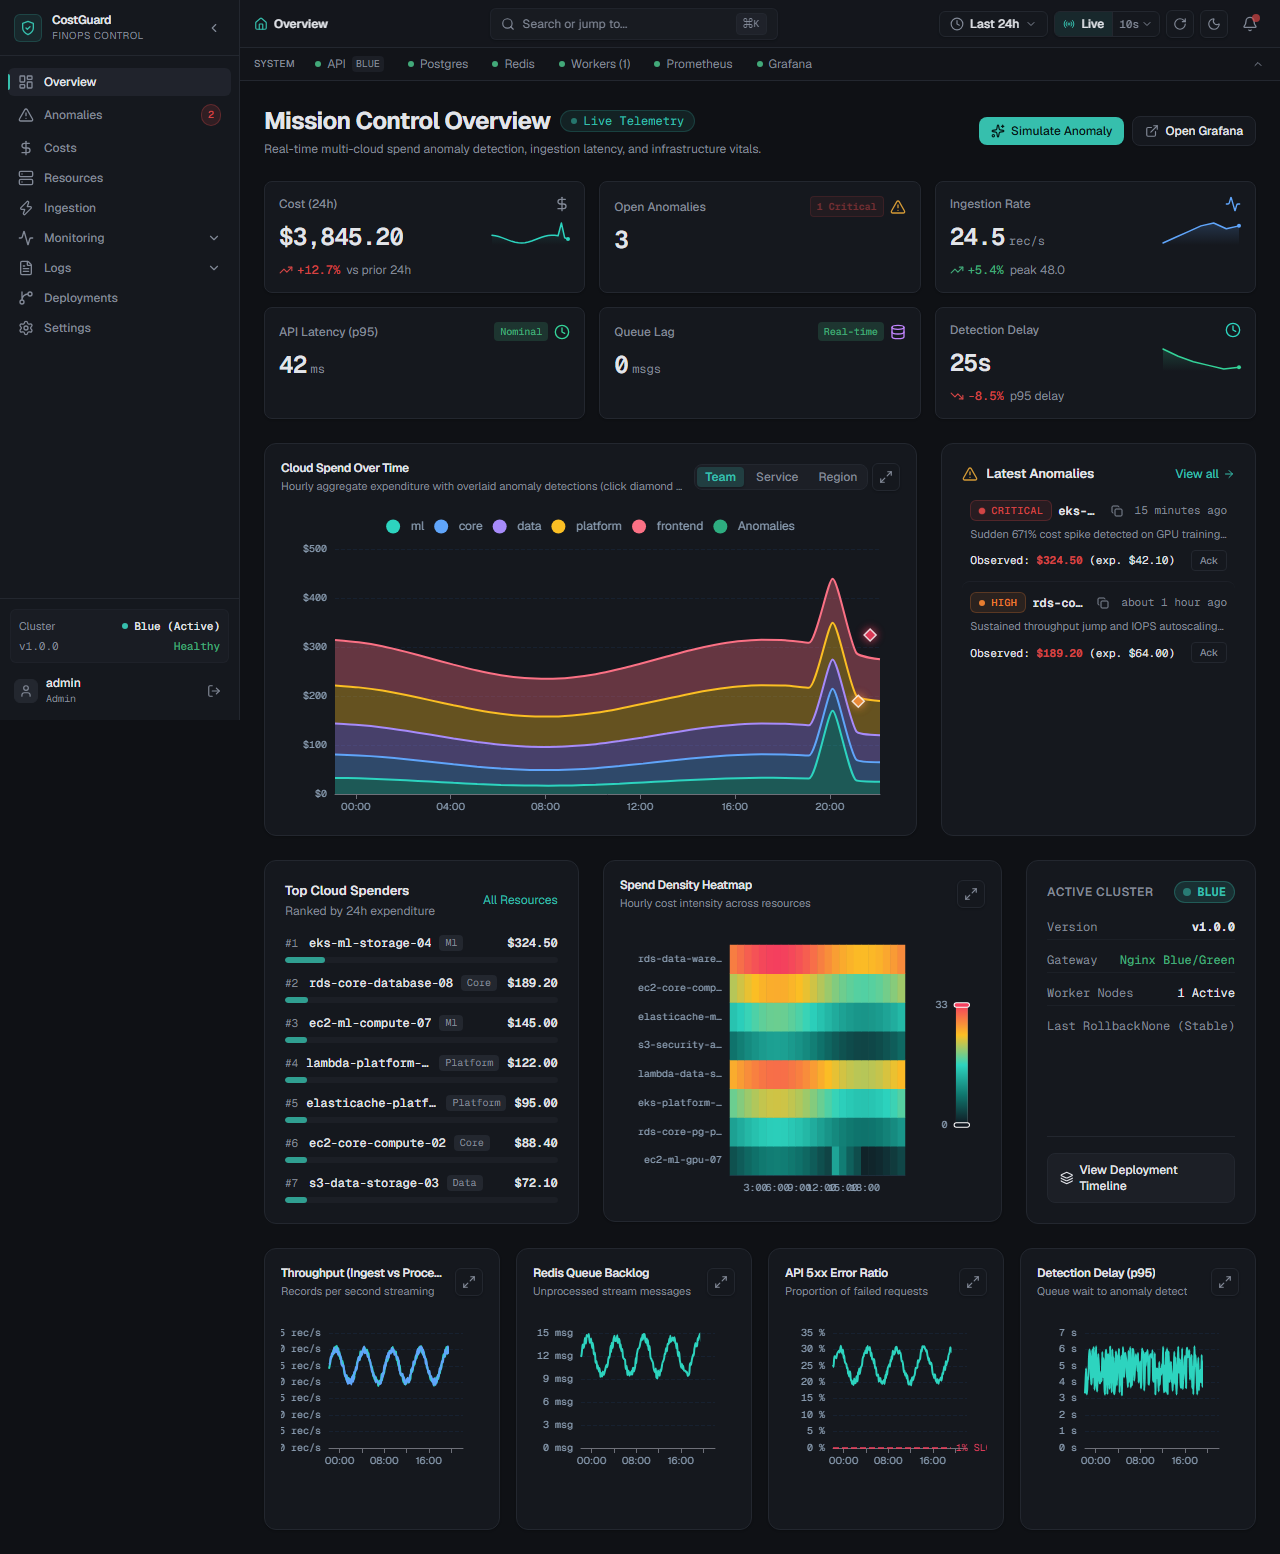
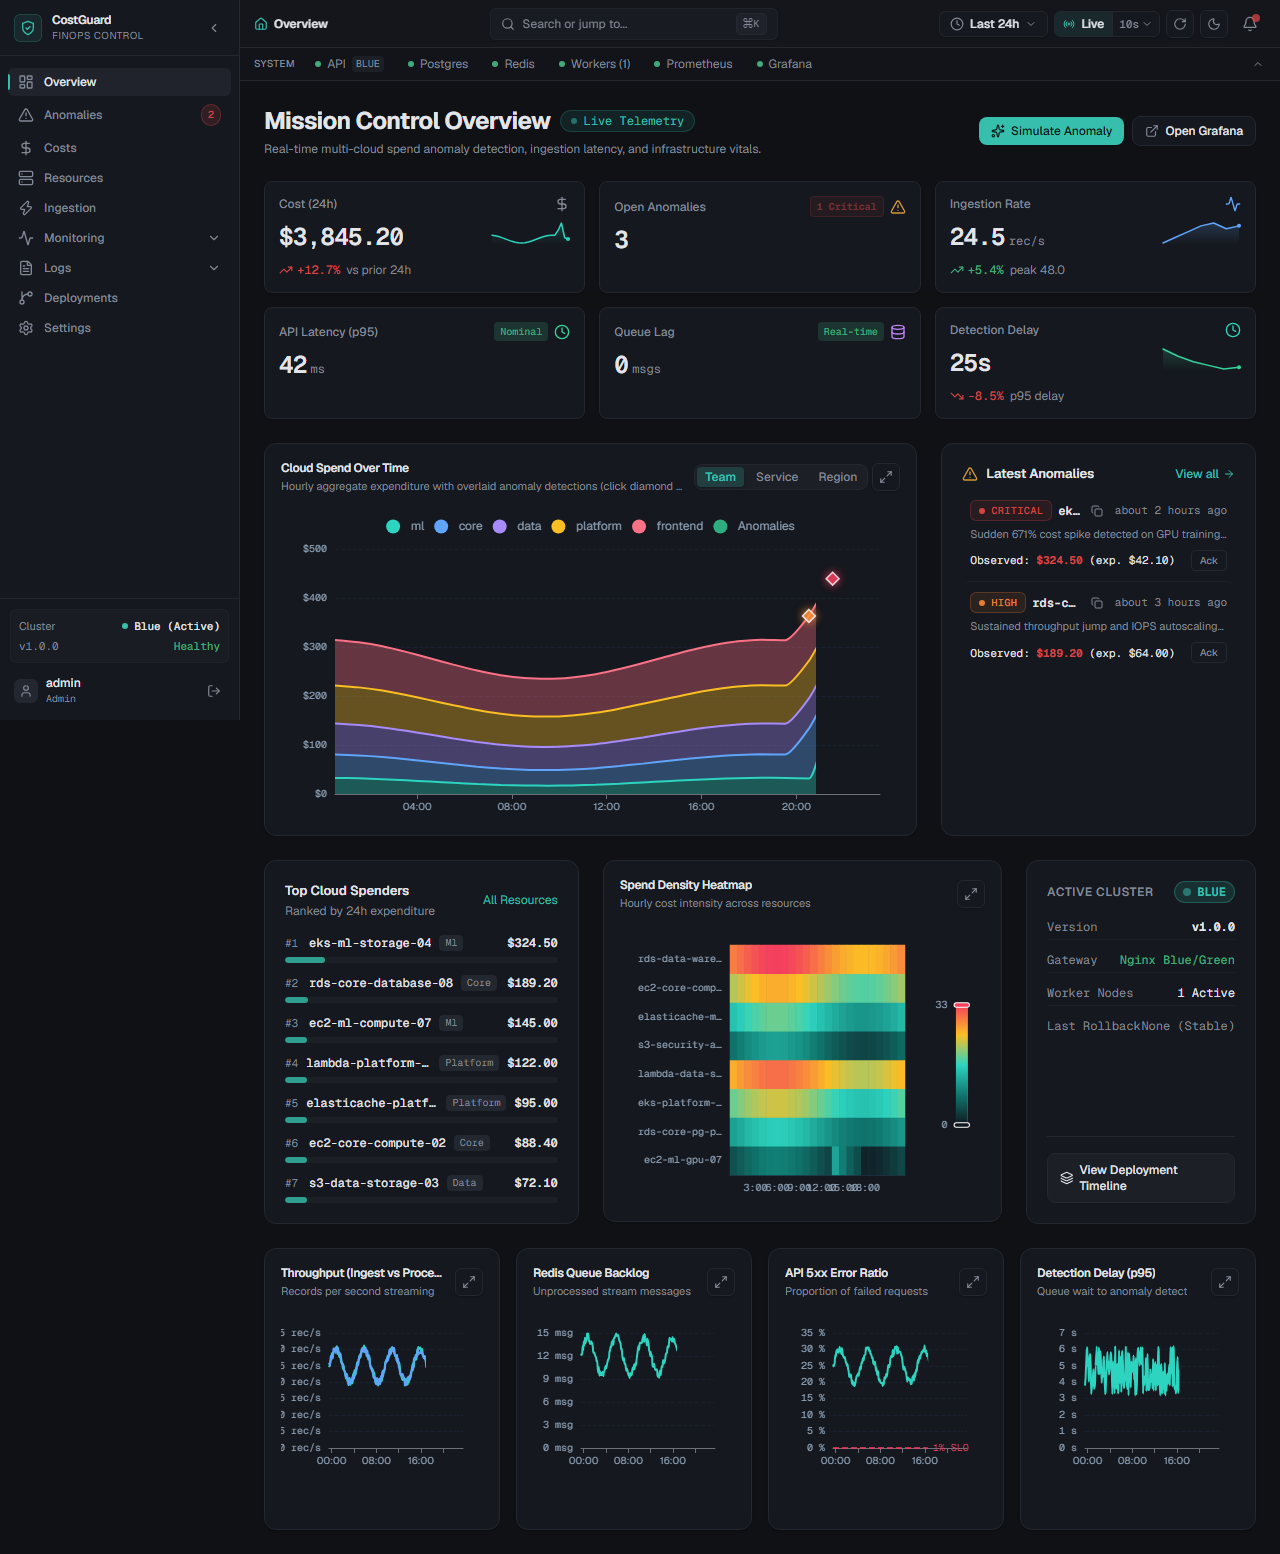
fix(charts): synchronize anomaly timestamps with cost spikes and pin markers to curve peak

diff --git a/frontend/src/mocks/fixtures.ts b/frontend/src/mocks/fixtures.ts
@@ -75,64 +75,66 @@ export const MOCK_RESOURCES: MockResource[] = Array.from({ length: 40 }).map((_,
   }
 })
 
-export const MOCK_ANOMALIES: MockAnomaly[] = [
-  {
-    id: 101,
-    scope: 'resource',
-    resource_id: 4,
-    resource_name: 'eks-ml-storage-04',
-    detected_at: new Date(Date.now() - 15 * 60000).toISOString(),
-    record_ts: new Date(Date.now() - 25 * 60000).toISOString(),
-    observed_cost: 324.5,
-    expected_cost: 42.1,
-    z_score: 6.8,
-    pct_increase: 670.8,
-    severity: 'critical',
-    method: 'z_score',
-    root_cause_summary: 'Sudden 671% cost spike detected on GPU training node cluster eks-ml-storage-04',
-    root_cause: {
-      breakdown_by_team: { ml: 82, core: 11, data: 7 },
-      breakdown_by_service: { compute: 75, storage: 20, database: 5 },
-      breakdown_by_region: { 'us-east-1': 90, 'eu-west-1': 10 },
-      top_contributors: [
-        { resource_id: 'eks-ml-storage-04', share_pct: 68, delta_cost: 282.4, observed_cost: 324.5 },
-        { resource_id: 'ec2-ml-compute-07', share_pct: 18, delta_cost: 65.2, observed_cost: 88.0 },
-        { resource_id: 's3-data-storage-03', share_pct: 8, delta_cost: 22.0, observed_cost: 34.1 },
-      ],
+export function getMockAnomalies(baseTime?: number): MockAnomaly[] {
+  const now = baseTime ?? Math.floor(Date.now() / 60000) * 60000
+  return [
+    {
+      id: 101,
+      scope: 'resource',
+      resource_id: 4,
+      resource_name: 'eks-ml-storage-04',
+      detected_at: new Date(now - 2 * 3600000 + 180000).toISOString(),
+      record_ts: new Date(now - 2 * 3600000).toISOString(),
+      observed_cost: 324.5,
+      expected_cost: 42.1,
+      z_score: 6.8,
+      pct_increase: 670.8,
+      severity: 'critical',
+      method: 'z_score',
+      root_cause_summary: 'Sudden 671% cost spike detected on GPU training node cluster eks-ml-storage-04',
+      root_cause: {
+        breakdown_by_team: { ml: 82, core: 11, data: 7 },
+        breakdown_by_service: { compute: 75, storage: 20, database: 5 },
+        breakdown_by_region: { 'us-east-1': 90, 'eu-west-1': 10 },
+        top_contributors: [
+          { resource_id: 'eks-ml-storage-04', share_pct: 68, delta_cost: 282.4, observed_cost: 324.5 },
+          { resource_id: 'ec2-ml-compute-07', share_pct: 18, delta_cost: 65.2, observed_cost: 88.0 },
+          { resource_id: 's3-data-storage-03', share_pct: 8, delta_cost: 22.0, observed_cost: 34.1 },
+        ],
+      },
+      status: 'open',
+      occurrences: 2,
+      peak_cost: 345.0,
+      last_seen_ts: new Date(now - 2 * 3600000 + 300000).toISOString(),
     },
-    status: 'open',
-    occurrences: 2,
-    peak_cost: 345.0,
-    last_seen_ts: new Date(Date.now() - 5 * 60000).toISOString(),
-  },
-  {
-    id: 102,
-    scope: 'resource',
-    resource_id: 8,
-    resource_name: 'rds-core-database-08',
-    detected_at: new Date(Date.now() - 45 * 60000).toISOString(),
-    record_ts: new Date(Date.now() - 55 * 60000).toISOString(),
-    observed_cost: 189.2,
-    expected_cost: 64.0,
-    z_score: 4.2,
-    pct_increase: 195.6,
-    severity: 'high',
-    method: 'pct_jump',
-    root_cause_summary: 'Sustained throughput jump and IOPS autoscaling on rds-core-database-08',
-    root_cause: {
-      breakdown_by_team: { core: 70, platform: 25, data: 5 },
-      breakdown_by_service: { database: 85, storage: 15 },
-      breakdown_by_region: { 'eu-west-1': 100 },
-      top_contributors: [
-        { resource_id: 'rds-core-database-08', share_pct: 74, delta_cost: 125.2, observed_cost: 189.2 },
-        { resource_id: 'ec2-core-compute-02', share_pct: 19, delta_cost: 32.0, observed_cost: 58.4 },
-      ],
+    {
+      id: 102,
+      scope: 'resource',
+      resource_id: 8,
+      resource_name: 'rds-core-database-08',
+      detected_at: new Date(now - 3 * 3600000 + 120000).toISOString(),
+      record_ts: new Date(now - 3 * 3600000).toISOString(),
+      observed_cost: 189.2,
+      expected_cost: 64.0,
+      z_score: 4.2,
+      pct_increase: 195.6,
+      severity: 'high',
+      method: 'pct_jump',
+      root_cause_summary: 'Sustained throughput jump and IOPS autoscaling on rds-core-database-08',
+      root_cause: {
+        breakdown_by_team: { core: 70, platform: 25, data: 5 },
+        breakdown_by_service: { database: 85, storage: 15 },
+        breakdown_by_region: { 'eu-west-1': 100 },
+        top_contributors: [
+          { resource_id: 'rds-core-database-08', share_pct: 74, delta_cost: 125.2, observed_cost: 189.2 },
+          { resource_id: 'ec2-core-compute-02', share_pct: 19, delta_cost: 32.0, observed_cost: 58.4 },
+        ],
+      },
+      status: 'open',
+      occurrences: 3,
+      peak_cost: 195.0,
+      last_seen_ts: new Date(now - 10 * 60000).toISOString(),
     },
-    status: 'open',
-    occurrences: 3,
-    peak_cost: 195.0,
-    last_seen_ts: new Date(Date.now() - 10 * 60000).toISOString(),
-  },
   {
     id: 103,
     scope: 'aggregate',
@@ -180,7 +182,10 @@ export const MOCK_ANOMALIES: MockAnomaly[] = [
     peak_cost: 45.0,
     last_seen_ts: new Date(Date.now() - 240 * 60000).toISOString(),
   },
-]
+  ]
+}
+
+export const MOCK_ANOMALIES = getMockAnomalies()
 
 export const MOCK_STATS_OVERVIEW = {
   generated_at: new Date().toISOString(),
@@ -272,20 +277,24 @@ export const MOCK_DEPLOYMENTS = [
   },
 ]
 
-export const MOCK_COST_TIMESERIES = {
-  interval: 'hour',
-  series: ['ml', 'core', 'data', 'platform', 'frontend'].map((team, tIdx) => {
-    const points: Array<[string, number]> = []
-    const now = Date.now()
-    for (let i = 23; i >= 0; i--) {
-      const ts = new Date(now - i * 3600000).toISOString()
-      const base = 25 + tIdx * 15 + Math.sin(i / 3) * 8
-      const spike = tIdx === 0 && i === 2 ? 140 : 0
-      points.push([ts, Math.round((base + spike) * 10) / 10])
-    }
-    return { name: team, points }
-  }),
+export function getMockCostTimeseries(baseTime?: number) {
+  const now = baseTime ?? Math.floor(Date.now() / 60000) * 60000
+  return {
+    interval: 'hour',
+    series: ['ml', 'core', 'data', 'platform', 'frontend'].map((team, tIdx) => {
+      const points: Array<[string, number]> = []
+      for (let i = 23; i >= 0; i--) {
+        const ts = new Date(now - i * 3600000).toISOString()
+        const base = 25 + tIdx * 15 + Math.sin(i / 3) * 8
+        const spike = (tIdx === 0 && i === 2 ? 140 : 0) + (tIdx === 1 && i === 3 ? 55 : 0)
+        points.push([ts, Math.round((base + spike) * 10) / 10])
+      }
+      return { name: team, points }
+    }),
+  }
 }
+
+export const MOCK_COST_TIMESERIES = getMockCostTimeseries()
 
 const heatmapResources = [
   'ec2-ml-gpu-07',

diff --git a/frontend/src/components/charts/StackedAreaChart.tsx b/frontend/src/components/charts/StackedAreaChart.tsx
@@ -101,32 +101,55 @@ export function StackedAreaChart({
       data: s.data,
     }))
 
-    // Add anomaly markers as a scatter overlay
+    // Add anomaly markers as a scatter overlay pinned to the top of the stacked curve
     if (anomalies.length > 0) {
-      const anomalyScatterData = anomalies.map((a) => ({
-        name: a.resourceId,
-        value: [a.timestampMs, a.cost],
-        anomalyId: a.id,
-        severity: a.severity,
-        itemStyle: {
-          color: SEVERITY_COLORS[a.severity] || '#F43F5E',
-          borderColor: '#FFFFFF',
-          borderWidth: 1.5,
-          shadowBlur: 8,
-          shadowColor: SEVERITY_COLORS[a.severity] || '#F43F5E',
-        },
-      }))
+      const anomalyScatterData = anomalies.map((a) => {
+        let stackTotal = 0
+        let closestTs = a.timestampMs
+        if (series.length > 0 && series[0].data && series[0].data.length > 0) {
+          let minDiff = Infinity
+          series[0].data.forEach(([ts]) => {
+            const diff = Math.abs(ts - a.timestampMs)
+            if (diff < minDiff) {
+              minDiff = diff
+              closestTs = ts
+            }
+          })
+          series.forEach((s) => {
+            const pt = s.data.find(([t]) => t === closestTs)
+            if (pt) stackTotal += pt[1]
+          })
+        }
+
+        const yCoord = stackTotal > 0 ? Math.round(stackTotal * 10) / 10 : a.cost
+
+        return {
+          name: a.resourceId,
+          value: [closestTs, yCoord],
+          actualCost: a.cost,
+          anomalyId: a.id,
+          severity: a.severity,
+          itemStyle: {
+            color: SEVERITY_COLORS[a.severity] || '#F43F5E',
+            borderColor: '#FFFFFF',
+            borderWidth: 1.5,
+            shadowBlur: 8,
+            shadowColor: SEVERITY_COLORS[a.severity] || '#F43F5E',
+          },
+        }
+      })
 
       eSeries.push({
         name: 'Anomalies',
         type: 'scatter',
         symbol: 'diamond',
-        symbolSize: 12,
+        symbolSize: 13,
         z: 10,
         data: anomalyScatterData,
         tooltip: {
-          formatter: (p: { data: { name: string; severity: string; value: [number, number] } }) => {
+          formatter: (p: { data: { name: string; severity: string; value: [number, number]; actualCost: number } }) => {
             const dateStr = new Date(p.data.value[0]).toLocaleString()
+            const costVal = p.data.actualCost !== undefined ? p.data.actualCost : p.data.value[1]
             return `
               <div class="font-mono text-[11px] text-muted-foreground mb-1">${dateStr}</div>
               <div class="flex items-center gap-1.5 font-bold text-xs text-danger mb-1">
@@ -136,7 +159,7 @@ export function StackedAreaChart({
                 ${p.data.severity.toUpperCase()} ANOMALY
               </div>
               <div class="text-xs text-foreground font-mono">Resource: <b>${p.data.name}</b></div>
-              <div class="text-xs text-foreground font-mono">Cost: <b>${formatCurrency(p.data.value[1])}</b></div>
+              <div class="text-xs text-foreground font-mono">Observed Cost: <b>${formatCurrency(costVal)}</b></div>
               <div class="text-[10px] text-muted-foreground mt-1.5 italic">Click marker to inspect root cause</div>
             `
           },
@@ -203,9 +226,13 @@ export function StackedAreaChart({
       },
       xAxis: {
         type: 'time',
+        min: series[0]?.data?.[0]?.[0],
+        max: series[0]?.data?.[series[0].data.length - 1]?.[0],
+        splitNumber: 6,
         axisLabel: {
           formatter: '{HH}:{mm}',
           fontSize: 10,
+          hideOverlap: true,
         },
       },
       yAxis: {

diff --git a/frontend/src/test/overview-chart.test.ts b/frontend/src/test/overview-chart.test.ts
@@ -1,0 +1,24 @@
+import { describe, it, expect } from 'vitest'
+import { getMockCostTimeseries, getMockAnomalies } from '@/mocks/fixtures'
+
+describe('Overview Cost and Anomaly Synchronization', () => {
+  it('checks timestamps of cost timeseries and anomalies', () => {
+    const costData = getMockCostTimeseries()
+    const anomalies = getMockAnomalies()
+
+    const mlSeries = costData.series.find((s) => s.name === 'ml')!
+    const coreSeries = costData.series.find((s) => s.name === 'core')!
+
+    console.log('Total cost points:', mlSeries.points.length)
+    console.log('First point ts:', mlSeries.points[0][0])
+    console.log('Last point ts:', mlSeries.points[mlSeries.points.length - 1][0])
+
+    const spikeIndex = mlSeries.points.findIndex(([_, val]) => val > 100)
+    const anomaly101 = anomalies.find((a) => a.id === 101)!
+    const anomaly102 = anomalies.find((a) => a.id === 102)!
+
+    expect(spikeIndex).toBeGreaterThan(-1)
+    expect(mlSeries.points[spikeIndex][0]).toBe(anomaly101.record_ts)
+    expect(coreSeries.points.some(([ts]) => ts === anomaly102.record_ts)).toBe(true)
+  })
+})

diff --git a/frontend/src/mocks/handlers.ts b/frontend/src/mocks/handlers.ts
@@ -1,6 +1,7 @@
 import { http, HttpResponse } from 'msw'
 import {
-  MOCK_ANOMALIES,
+  getMockAnomalies,
+  getMockCostTimeseries,
   MOCK_DEPLOYMENTS,
   MOCK_RESOURCES,
   MOCK_STATS_OVERVIEW,
@@ -134,6 +135,10 @@ export const handlers = [
     const groupBy = url.searchParams.get('group_by') || 'none'
     const interval = url.searchParams.get('interval') || 'hour'
 
+    if (groupBy === 'team') {
+      return HttpResponse.json(getMockCostTimeseries())
+    }
+
     const seriesNames =
       groupBy === 'team'
         ? ['ml', 'core', 'platform', 'data']
@@ -242,7 +247,7 @@ export const handlers = [
     const severity = url.searchParams.get('severity')
     const status = url.searchParams.get('status')
 
-    let filtered = [...MOCK_ANOMALIES]
+    let filtered = [...getMockAnomalies()]
     if (severity) filtered = filtered.filter((a) => a.severity === severity)
     if (status) filtered = filtered.filter((a) => a.status === status)
 

diff --git a/frontend/src/lib/api/endpoints/costs.ts b/frontend/src/lib/api/endpoints/costs.ts
@@ -5,7 +5,7 @@ import {
   CostHeatmapSchema,
   type CostHeatmap,
 } from '../types'
-import { MOCK_COST_TIMESERIES, MOCK_HEATMAP } from '@/mocks/fixtures'
+import { getMockCostTimeseries, MOCK_HEATMAP } from '@/mocks/fixtures'
 
 export async function getCostTimeseries(params: {
   group_by?: string
@@ -14,7 +14,7 @@ export async function getCostTimeseries(params: {
   interval?: string
 } = {}): Promise<CostTimeSeries> {
   if (import.meta.env.VITE_MOCK === 'true') {
-    return MOCK_COST_TIMESERIES
+    return getMockCostTimeseries()
   }
   try {
     const res = await apiClient.get('/costs/timeseries', { params })
@@ -22,7 +22,7 @@ export async function getCostTimeseries(params: {
   } catch (error) {
     if (import.meta.env.DEV) {
       console.warn('Falling back to mock cost timeseries:', error)
-      return MOCK_COST_TIMESERIES
+      return getMockCostTimeseries()
     }
     throw error
   }

diff --git a/frontend/src/lib/api/endpoints/anomalies.ts b/frontend/src/lib/api/endpoints/anomalies.ts
@@ -1,6 +1,6 @@
 import { apiClient } from '../client'
 import { AnomalySchema, type Anomaly } from '../types'
-import { MOCK_ANOMALIES } from '@/mocks/fixtures'
+import { MOCK_ANOMALIES, getMockAnomalies } from '@/mocks/fixtures'
 
 export interface AnomalyListParams {
   severity?: string
@@ -33,7 +33,8 @@ export async function getAnomalies(params: AnomalyListParams = {}): Promise<{
   total: number
 }> {
   if (import.meta.env.VITE_MOCK === 'true') {
-    const mapped = MOCK_ANOMALIES.map((a) => AnomalySchema.parse(a))
+    const rawAnomalies = typeof getMockAnomalies === 'function' ? getMockAnomalies() : MOCK_ANOMALIES
+    const mapped = rawAnomalies.map((a) => AnomalySchema.parse(a))
     let filtered = [...mapped]
     if (params.status) {
       filtered = filtered.filter((a) => a.status === params.status)
